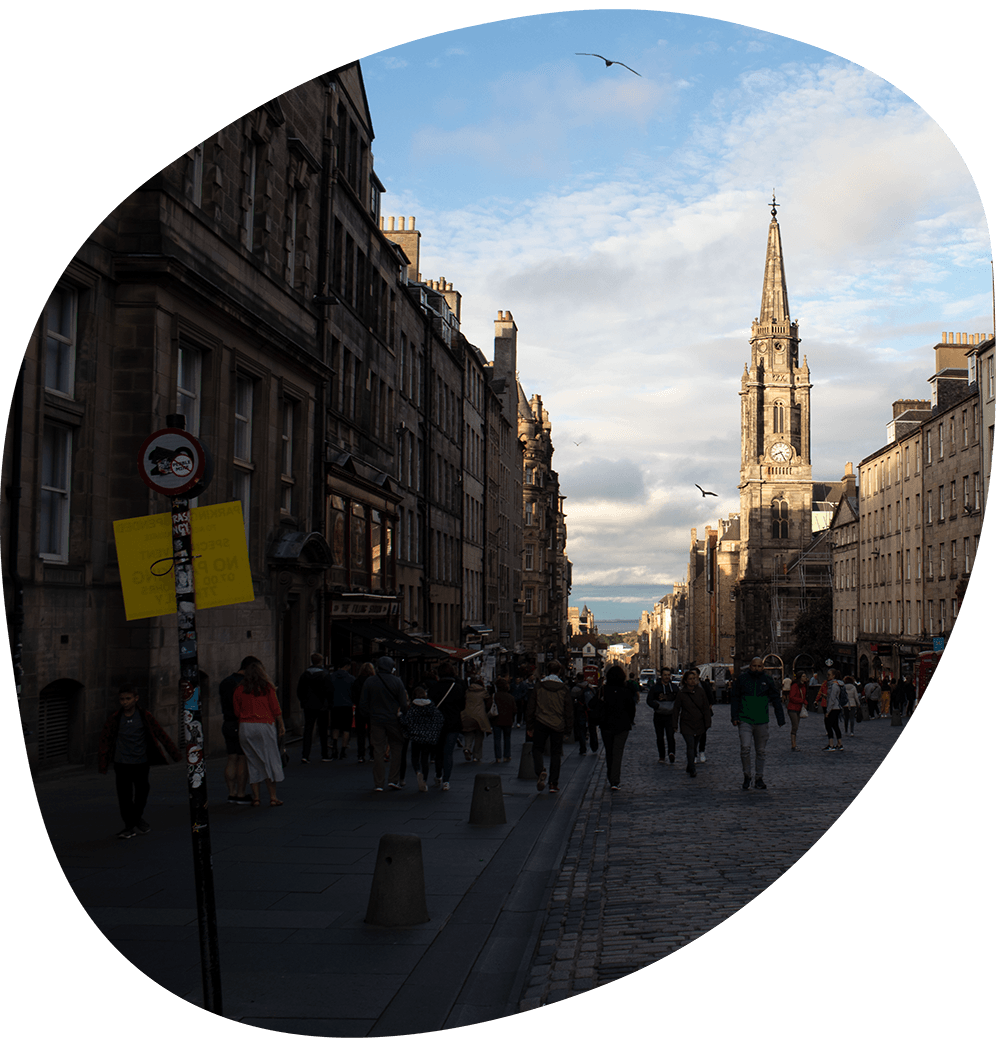
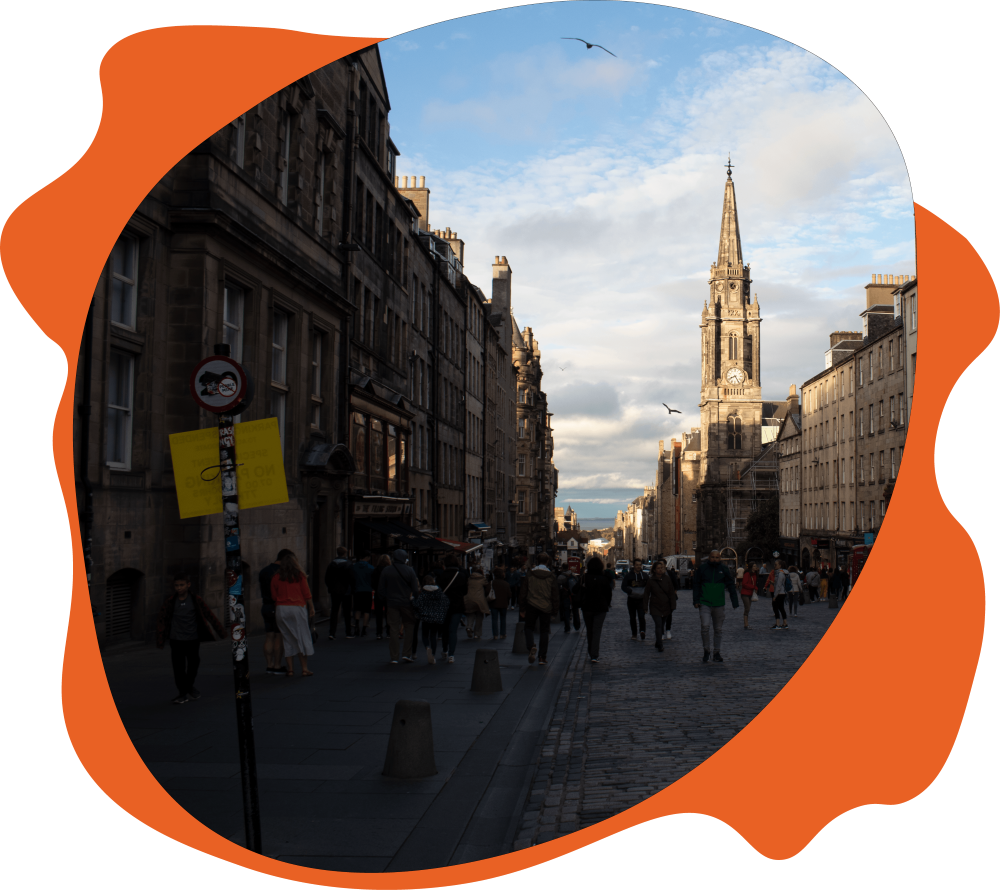
fix blob responsiveness

diff --git a/pages/index.vue b/pages/index.vue
@@ -174,11 +174,11 @@
                 </div>
                 
                 <div class="full-page section" id="full-page-3" data-anchor="events">
-                    <img src="../assets/images/bigglob.svg" alt="tes" id="full-page-3-back" class="d-none d-xl-block">
+<!--                    <img src="../assets/images/bigglob.svg" alt="tes" id="full-page-3-back" class="d-none d-xl-block">-->
                     <img src="../assets/images/edin.png" alt="uhh" id="full-page-3-front" class="d-none d-xl-block">
                     <div id="full-page-3-text">
-                        <img src="../assets/images/bigglob.svg" alt="tes" id="full-page-3-back-mobile"
-                             class="d-sm-none d-md-block d-lg-block d-xl-none d-none">
+<!--                        <img src="../assets/images/bigglob.svg" alt="tes" id="full-page-3-back-mobile"-->
+<!--                             class="d-sm-none d-md-block d-lg-block d-xl-none d-none">-->
                         <img src="../assets/images/edin.png" alt="uhh" id="full-page-3-front-mobile"
                              class="d-block d-xl-none">
                         <div style="z-index: 200;">
